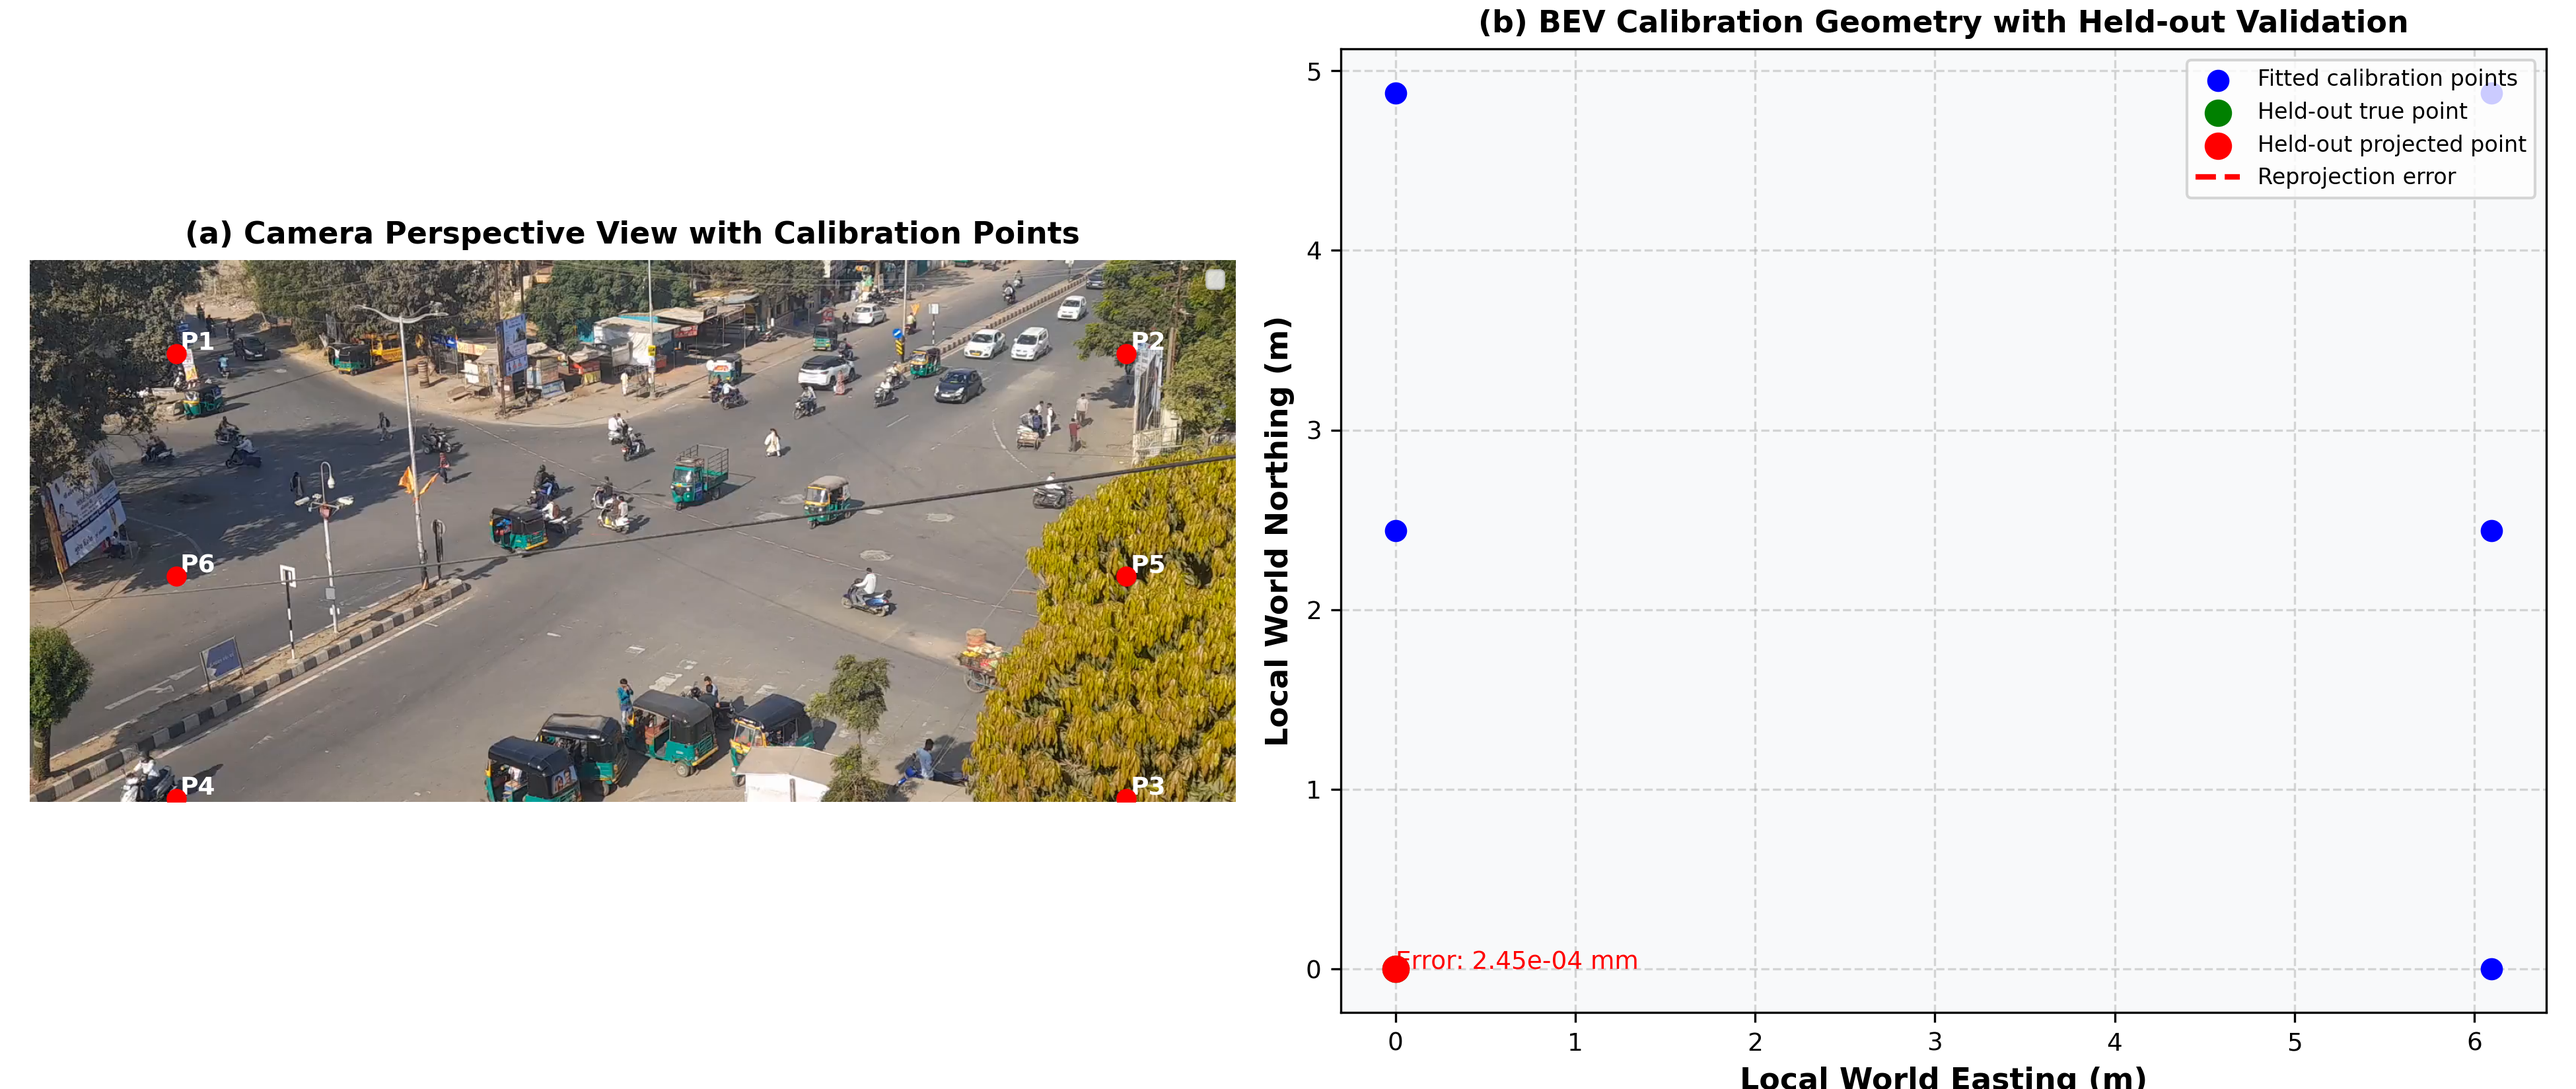
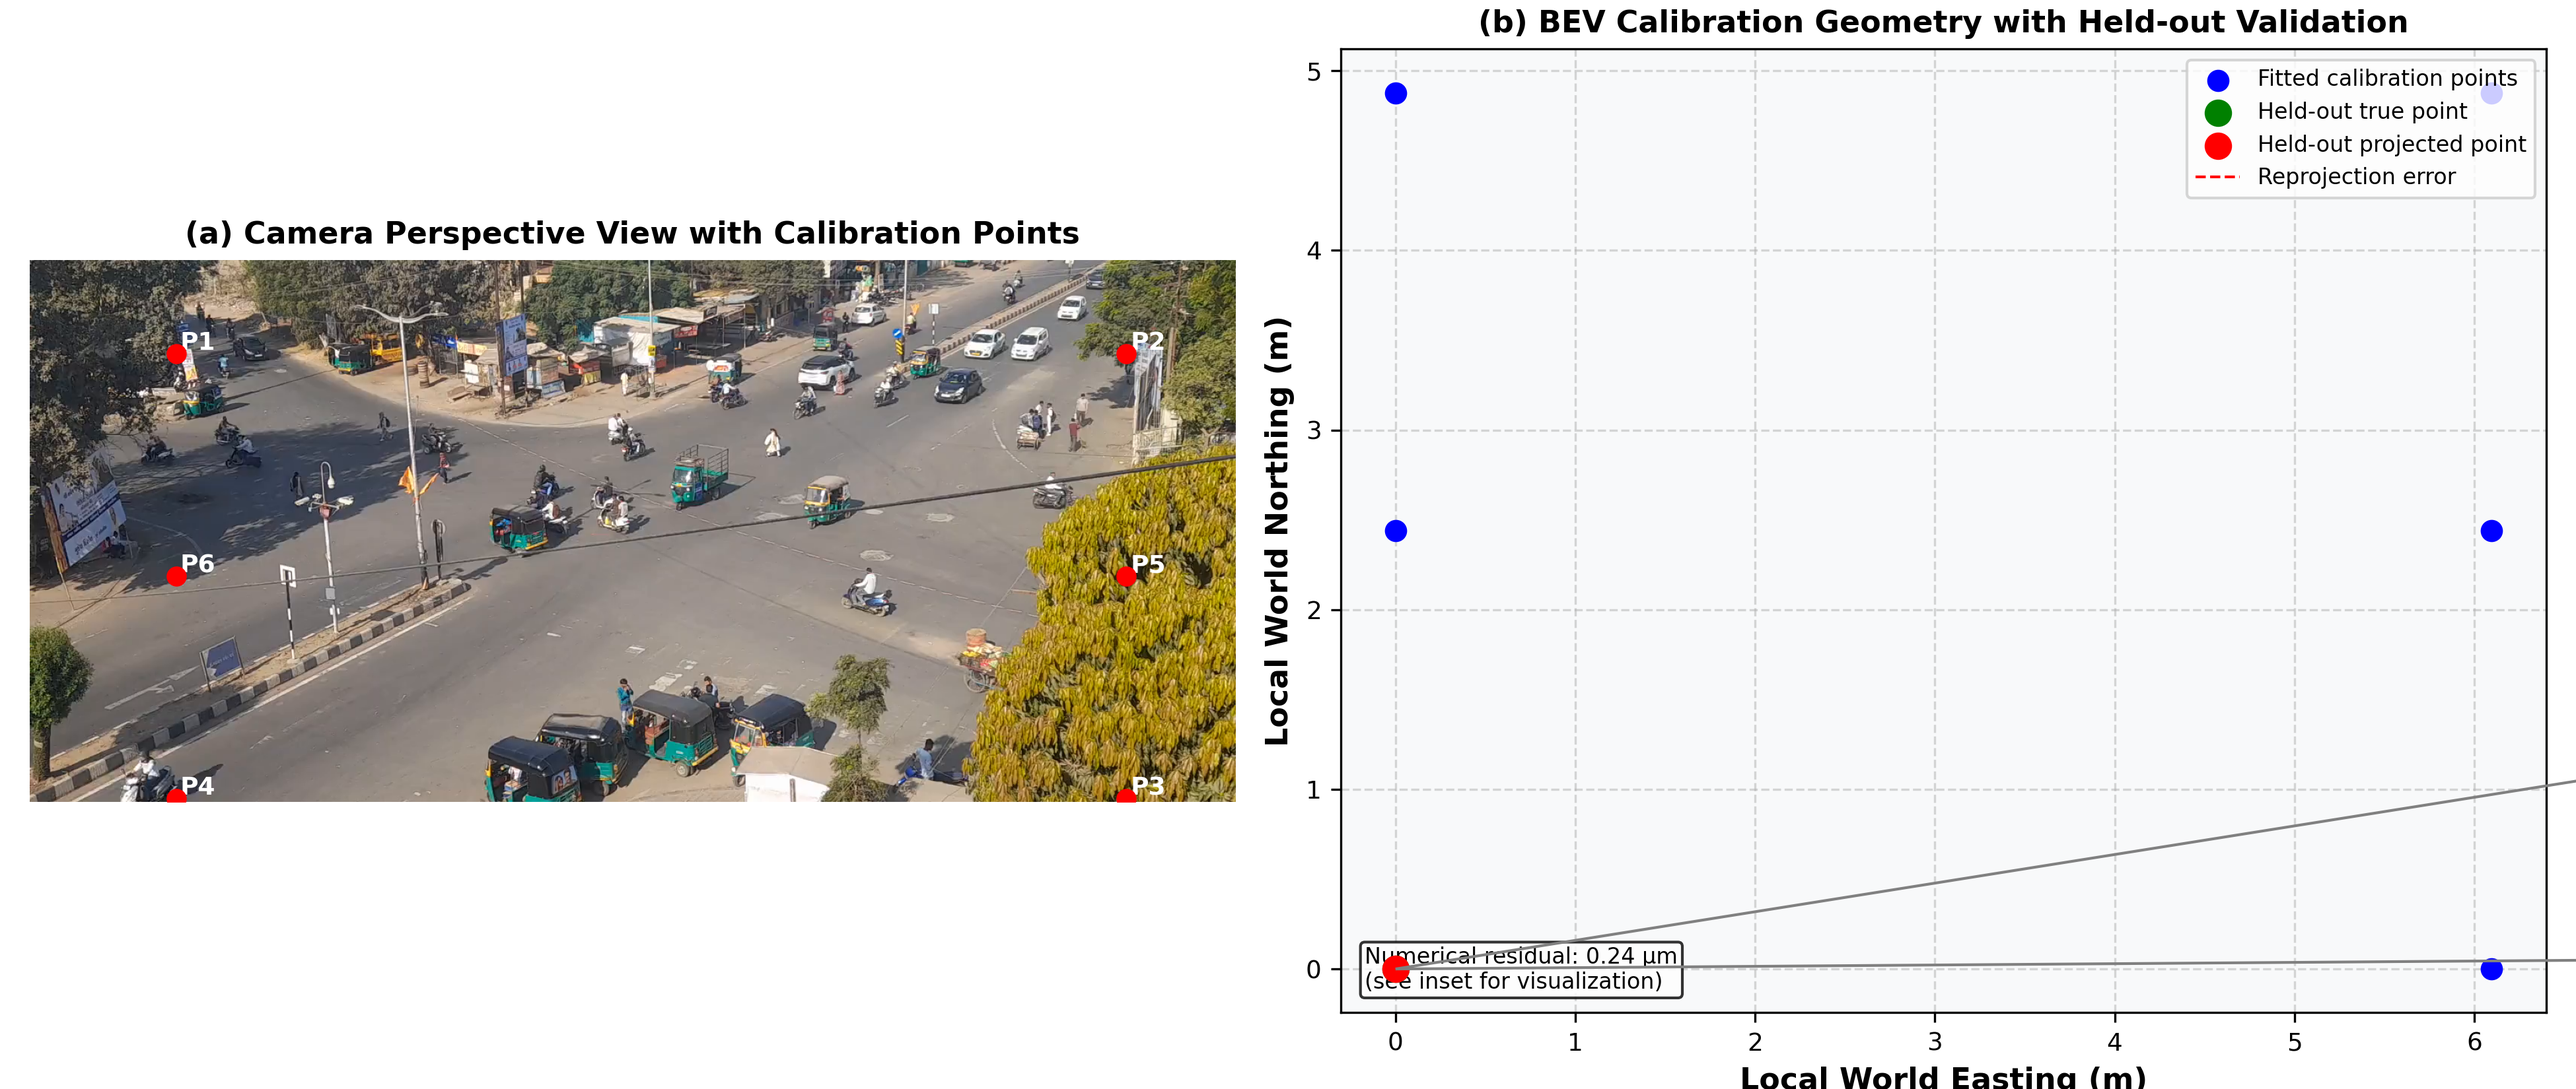
Add magnified inset to BEV held-out validation figure

Changed region(s): [[0.5274, 0.8345, 0.6826, 0.9273], [0.4654, 0.2473, 0.4964, 0.2782]]

diff --git a/docs/figures/README.md b/docs/figures/README.md
@@ -14,3 +14,7 @@ Figure `bev_dual_panel_validation.png` shows:
 - Camera perspective with numbered calibration points (a)
 - BEV projected points with one held-out point and its residual error vector (b)
 This demonstrates self-consistency under the planar assumption, not independent field accuracy.
+
+## BEV Held-out Validation Figure
+- The `bev_dual_panel_validation.png` includes a magnified inset to show the sub-micron separation between true and projected held-out points.
+- This demonstrates numerical self-consistency, not independent field accuracy.
